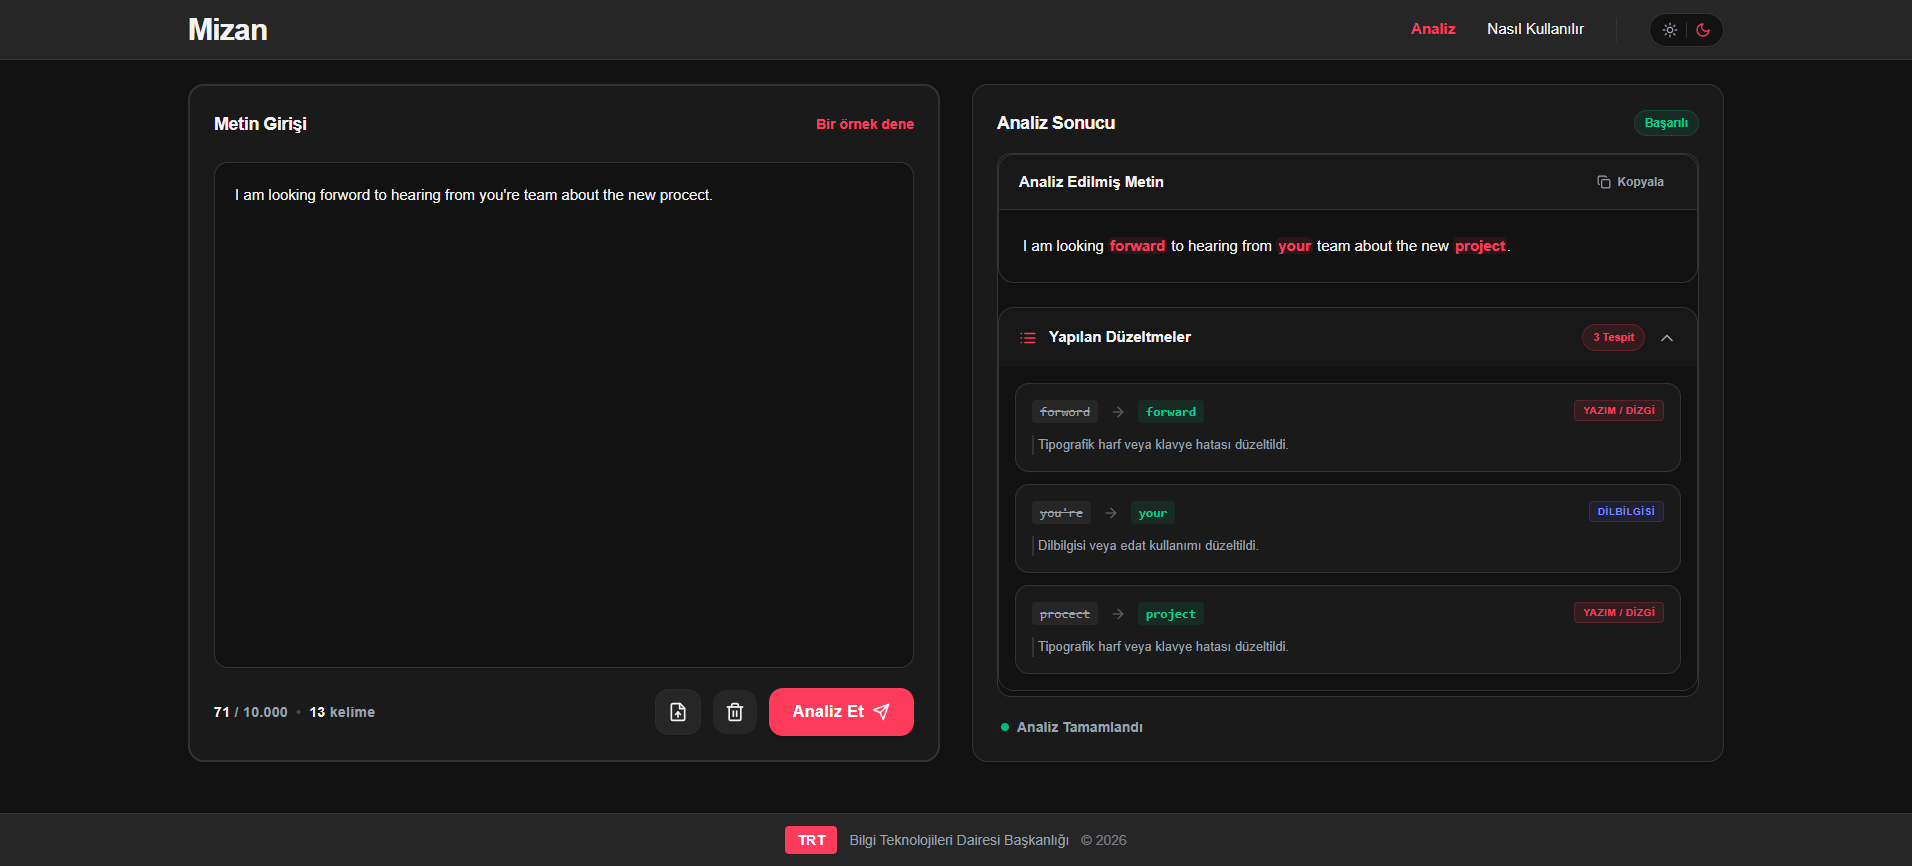
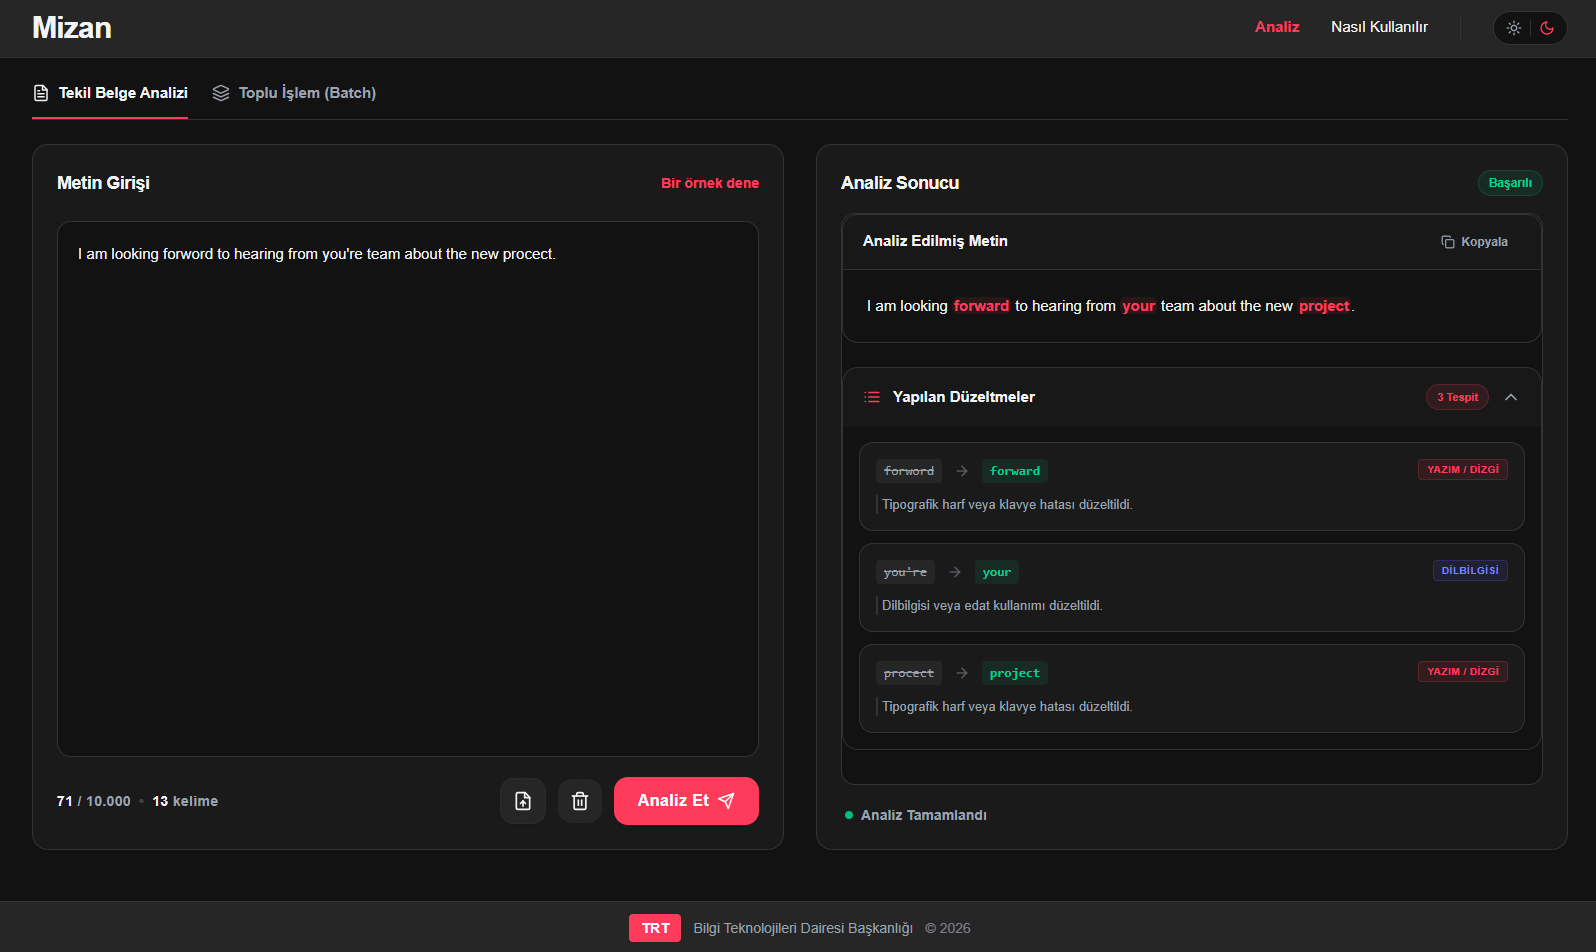
docs: finalize README v1.1.0 and refresh project screenshots
- Updated feature list with Auto-Chunking and Drag & Drop support.

- Refreshed all interface screenshots in /docs/images/ for Single and Batch modes.

- Finalized Tech Stack and Architecture visualization.

- Synced documentation samples with the latest API schema.

diff --git a/README.md b/README.md
@@ -1,6 +1,6 @@
 # ⚖ Mizan
 
-![Version](https://img.shields.io/badge/version-1.0.0-blue.svg)
+![Version](https://img.shields.io/badge/version-1.1.0-blue.svg)
 ![Python](https://img.shields.io/badge/python-3.10+-blue.svg)
 ![React](https://img.shields.io/badge/react-18.x-61dafb.svg)
 ![FastAPI](https://img.shields.io/badge/FastAPI-0.100+-009688.svg)
@@ -18,25 +18,32 @@
 ![Mizan Analiz Sonucu](./docs/images/analyze_result_dark.png)
 > *Llama 3.1 ve Regex motorunun tespit ettiği hataların kategorize edilmiş, detaylı görünümü.*
 
-### 2. Gömülü API Referansı (Light Mode)
-![Mizan API Dokümantasyonu](./docs/images/how-to-use_page_light.png)
+### 2. Toplu İşlem ve Akordiyon Arayüzü (Batch Mode)
+![Mizan Batch İşlemi](./docs/images/batch_result_dark.png)
+> *Çoklu dosya yönetim kuyruğu, güvenlik sınırları ve dosya bazlı açılır-kapanır (Accordion) analiz sonuçları.*
+
+### 3. Gömülü API Referansı (Light Mode)
+![Mizan API Dokümantasyonu](./docs/images/how-to-use_light_about.png)
 > *Geliştiriciler için doğrudan arayüze entegre edilmiş, modern REST API ve HTTP Durum Kodları dokümantasyonu.*
 
-### 3. Kullanıcı Geri Bildirim Sistemi
-![Mizan Geri Bildirim](./docs/images/dislike_page.png)
+### 4. Kullanıcı Geri Bildirim Sistemi
+![Mizan Geri Bildirim](./docs/images/dislike_page_dark.png)
 > *Yapay zeka modelini sürekli iyileştirmek (RLHF) için tasarlanmış detaylı geri bildirim mekanizması.*
 
 ---
 
 ## ✨ Öne Çıkan Özellikler
 
-* **🚀 Hibrit Motor (Regex + LLM):** Kural tabanlı katman ile milisaniyelik ön temizlik yapar, ardından Llama-3.1-8B modeli ile derin bağlamsal analiz gerçekleştirir.
+* **🚀 Hibrit Motor (Regex + LLM):** Kural tabanlı katman ile milisaniyelik ön temizlik yapar (örn: noktalama sonrası boşluk ekleme), ardından Llama-3.1-8B modeli ile derin bağlamsal analiz gerçekleştirir.
 * **🧩 Atomik Düzeltme & Sınıflandırma:** Hataları bütünsel olarak değil; *Dilbilgisi, Terminoloji, Tipografi, Türkçe Karakter (Deascii)* gibi farklı kategorilerde atomik olarak parçalar ve raporlar.
 * **📖 Gömülü (Built-in) API Dokümantasyonu:** Harici bir araca gerek kalmadan, doğrudan React arayüzü üzerinden erişilebilen kapsamlı geliştirici dokümantasyonu.
 * **🔒 %100 Yerel & Güvenli:** Veriler hiçbir bulut servisine çıkmaz. Model tamamen yerel (Local) sunucuda koşar.
 * **📂 Toplu Dosya Analizi (Batch Processing):** `.txt`, `.md`, `.docx`, `.pdf`, `.csv` ve `.srt` dosyalarını sürükle-bırak yöntemiyle asenkron olarak işler.
-* **🛡 Enterprise-Grade Güvenlik:** Katı CORS politikaları, IP tabanlı Rate-Limiting ve detaylı HTTP Hata Yönetimi.
+* **🛡 Enterprise-Grade Güvenlik:** Katı CORS politikaları, IP tabanlı Rate-Limiting ve sistem sağlığı için "Max 5 Dosya / 500 Karakter Satır" ön doğrulama mekanizmaları.
 * **🔄 Sürekli Öğrenme ve Geri Bildirim (RLHF Altyapısı):** Analiz sonuçları için entegre edilmiş geri bildirim modülü sayesinde, modelin hatalı düzeltmelerini raporlama ve gelecekteki fine-tuning süreçleri için veri toplama imkanı.
+* **🛑 Ağ Seviyesinde İptal (Abort Controller):** Uzun süren toplu analiz işlemlerini anında, sunucu yorulmadan tek tuşla durdurma imkanı.
+* **✂ Büyük Metin Parçalama (Chunking):** 10.000 karaktere kadar olan devasa metinleri LLM'i kilitlemeden, otomatik olarak paragraflara bölerek işler ve aslına uygun birleştirir.
+* **🎨 Kusursuz Diff Boyama:** Metin farklılıklarını `diff` algoritması ile analiz ederek yanlış işaretlemelerin (false-positive) önüne geçer; hataları kelime içindeki harflere kadar inerek (inline) işaretler.
 
 ### 🎯 7 Katmanlı Hata Sınıflandırması
 Sistem, tespit ettiği hataları sadece "düzeltildi" deyip geçmez, atomik olarak sınıflandırır:
@@ -61,6 +68,7 @@ Sistem, tespit ettiği hataları sadece "düzeltildi" deyip geçmez, atomik olar
 ### Frontend (Client)
 * **Kütüphane:** React (TypeScript)
 * **Derleyici:** Vite
+* **Bağımlılıklar:** `diff` (Hizalama), `lucide-react` (İkonografi)
 * **Stilleme:** Tailwind CSS (Özel Light/Dark Mode pastel tema)
 * **İkonlar:** Lucide React
 
@@ -128,8 +136,8 @@ Mizan, hem son kullanıcılar hem de geliştiriciler için iki farklı kullanım
 
 **1. Web Arayüzü (Son Kullanıcılar İçin):**
 * Sistemi başlattıktan sonra tarayıcınızdan `http://localhost:5173` adresine gidin.
-* **Metin Analizi:** Editöre metninizi yapıştırın ve "Analiz Et" butonuna basın. Hatalar atomik düzeyde (Tipografik, Deascii vb.) sınıflandırılarak renklendirilir.
-* **Toplu Dosya İşleme (Batch):** Desteklenen formatlardaki dosyalarınızı sürükle-bırak yöntemiyle tek seferde işleyebilirsiniz.
+* **Tekil Belge Analizi:** Metninizi doğrudan yapıştırabilir veya `.txt, .csv, .md, .docx, .pdf, .srt` formatlarındaki dosyanızı sürükleyip bırakarak 10.000 karaktere kadar içerikleri analiz edebilirsiniz. Devasa metinler sistem tarafından arka planda akıllıca parçalanarak (chunking) işlenir. Hatalar atomik düzeyde `diff` algoritması ile kusursuz olarak renklendirilir.
+* **Toplu Analiz Masası (Batch Mode):** Desteklenen `.txt, .csv, .md, .docx, .pdf, .srt` formatlarındaki dosyalarınızı sürükle-bırak yöntemiyle tek seferde işleyebilirsiniz. Aynı anda **maksimum 5 dosya** ve satır başı **500 karakter** sınırıyla işlem yapılır. İstediğiniz an işlemi iptal edebilir, sonuçları Akordiyon arayüzünde inceleyebilirsiniz.
 
 **2. Gömülü API Referansı (Geliştiriciler İçin):**
 * Arayüzdeki **"Nasıl Kullanılır"** sekmesine tıklayarak, harici bir araca ihtiyaç duymadan Mizan'ın detaylı API dokümantasyonuna ulaşabilirsiniz. Gömülü dokümantasyon şu başlıkları içerir:
@@ -145,7 +153,7 @@ Mizan, hem son kullanıcılar hem de geliştiriciler için iki farklı kullanım
 
 Mizan, diğer sistemlerin entegre olabilmesi için standart RESTful API sunar.
 
-### Tekil Analiz Modeli
+### Tekil Analiz Modeli (`/analyze`)
 
 **cURL İsteği (Request):**
 
@@ -196,6 +204,21 @@ curl -X POST "http://localhost:8000/analyze" \
 }
 ```
 
+### Toplu Analiz Modeli (`/batch`)
+
+Kuyruk yapısı için optimize edilmiş çoklu satır rotası.
+
+```bash
+curl -X POST "http://localhost:8000/batch" \
+  -H "Content-Type: application/json" \
+  -d '{
+    "texts": [
+      "first sentence to analyze",
+      "second sentence with an errror"
+    ]
+  }'
+```
+
 ---
 
 ## 🧠 Akıllı Pipeline (İşlem Hattı) Mimarisi
@@ -206,6 +229,9 @@ curl -X POST "http://localhost:8000/analyze" \
 * **Graceful Fallback (Güvenli Düşüş):** Metin LLM'in sınırlarını aşarsa API çökmez, sistem otomatik olarak "Regex Fallback" moduna geçerek temel düzeltmeleri garanti eder.
 * **Fuzzy Token Alignment (Bulanık Hizalama):** Orijinal metin ile düzeltilmiş metin arasındaki karmaşık farklılıkları özel geliştirilmiş özyinelemeli (recursive) bir algoritma ile analiz eder.
 * **Kusursuz Atomik Ayrıştırma:** Yan yana gelmiş farklı hata türlerini (örn: "newyork yestarday" ➔ "New York yesterday") tek bir blok olarak yutmaz; her bir kelimeyi cımbızla ayırarak kendi hata kategorisinde (Terminoloji ve Yazım) ayrı ayrı sınıflandırır.
+* **Large Text Chunking:** 2500 karakteri aşan uzun metinlerin modelde taşma yaratmasını engellemek için metni otomatik paragraflara bölen ayrıştırma motoru.
+* **Regex Auto-Spacing:** Yapay zekaya gitmeden önce, noktalamalardan sonra unutulan boşlukları kural tabanlı katmanda çözen performans optimizasyonu.
+
 ---
 
 ## 🏗 Proje Mimarisi
@@ -218,7 +244,7 @@ MIZAN-AI-CORRECTOR/
 │   ├── core/              # Regex kural motorları ve NLP mantığı
 │   ├── models/            # .gguf formatındaki yerel LLM modelleri
 │   ├── main.py            # FastAPI sunucusu ve Endpoint rotaları
-│   ├── pipeline.py        # Hibrit işlem hattı (Orkestrasyon)
+│   ├── pipeline.py        # Hibrit işlem hattı (Orkestrasyon & Chunking)
 │   └── requirements.txt
 ├── frontend/
 │   ├── src/
@@ -235,12 +261,14 @@ MIZAN-AI-CORRECTOR/
 │   │   ├── presentation/  # UI katmanı (Görünümler, bileşenler ve rotalar)
 │   │   │   ├── components/
 │   │   │   │   ├── docs/
-│   │   │   │   ├── AnalysisResult.tsx
+│   │   │   │   ├── BatchAnalyzer.tsx  # Toplu analiz ve kuyruk yönetimi
+│   │   │   │   ├── AnalysisResult.tsx # Diff tabanlı boyama sistemi
 │   │   │   │   ├── Footer.tsx
 │   │   │   │   ├── Header.tsx
 │   │   │   │   └── Layout.tsx
 │   │   │   ├── hooks/
 │   │   │   ├── pages/
+│   │   │   │   └── AnalyzerPage.tsx   # Tab navigasyonlu ana arayüz
 │   │   │   └── routes.tsx
 │   │   ├── App.tsx
 │   │   └── main.tsx
